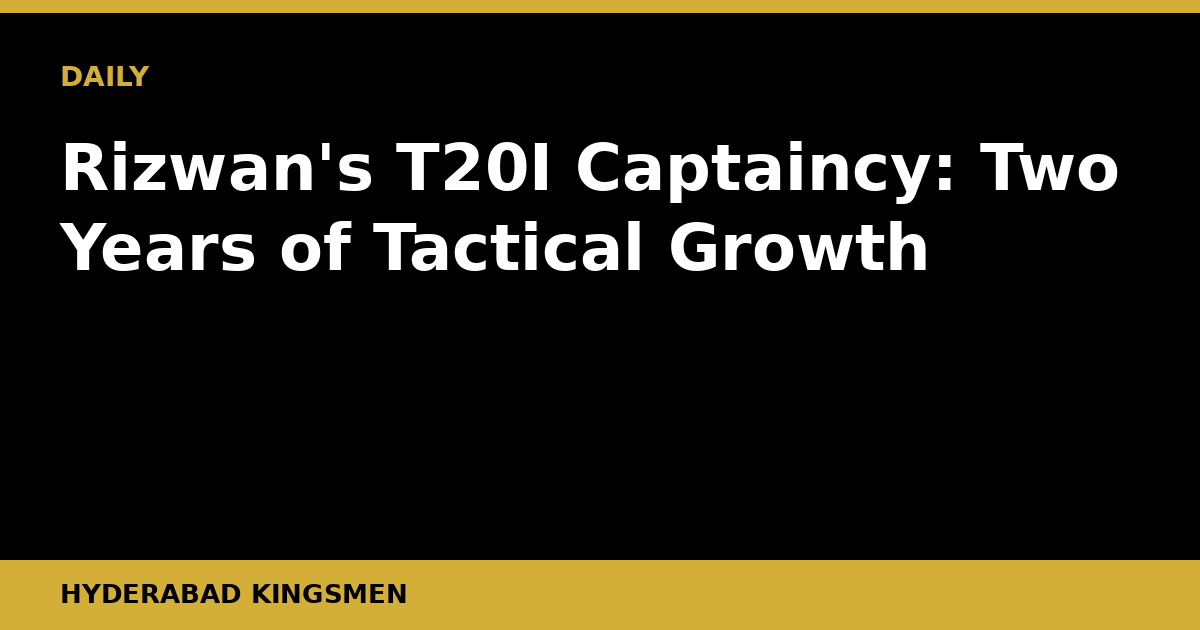
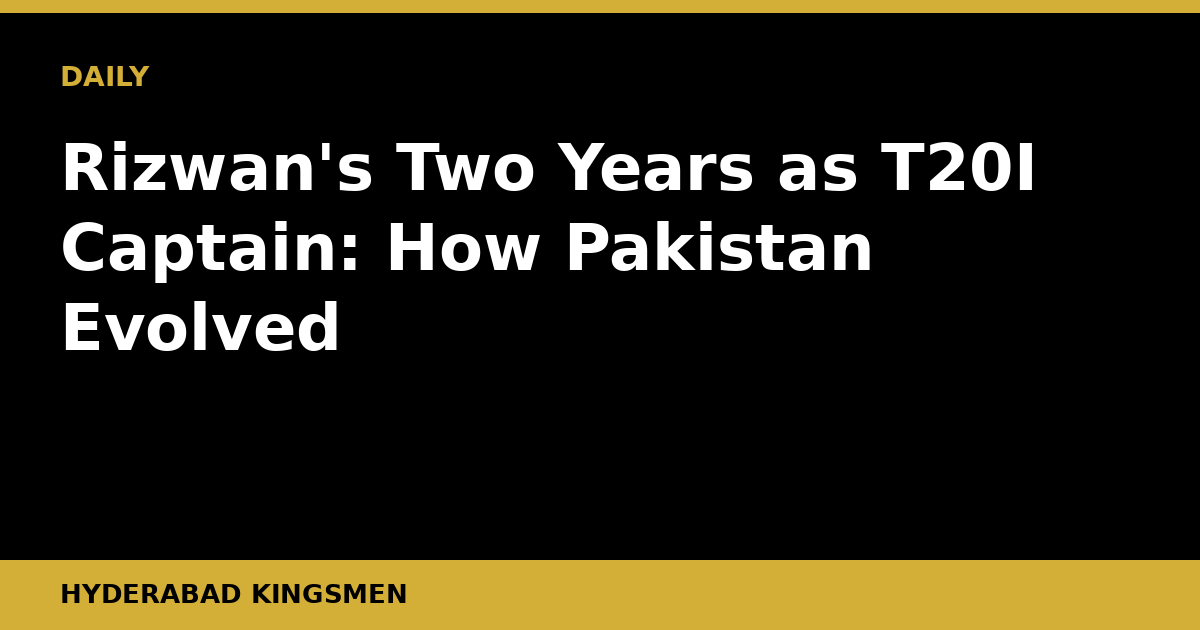
Daily post 2026-10-16

Changed region(s): [[0.0308, 0.2111, 0.9558, 0.4524], [0.0308, 0.4825, 0.3083, 0.573]]

diff --git a/content/posts/mohammad-rizwan-pakistan-t20i-captain-tactical-evolution.md b/content/posts/mohammad-rizwan-pakistan-t20i-captain-tactical-evolution.md
@@ -1,47 +1,43 @@
 ---
-title: "Rizwan's T20I Captaincy: Two Years of Tactical Growth"
+title: "Rizwan's Two Years as T20I Captain: How Pakistan Evolved"
 slug: "mohammad-rizwan-pakistan-t20i-captain-tactical-evolution"
-date: "2026-09-10T05:28:42+05:00"
+date: "2026-10-16T05:19:37+05:00"
 draft: false
 description: "Mohammad Rizwan has quietly reshaped Pakistan's T20I identity over two years. Here is what has changed, what has not, and what comes next."
 banner: "/banners/mohammad-rizwan-pakistan-t20i-captain-tactical-evolution.png"
 kicker: "ANALYSIS"
 author: "Hyderabad Kingsmen"
 translationKey: "mohammad-rizwan-pakistan-t20i-captain-tactical-evolution"
-tags: ["pakistan-cricket", "t20i", "mohammad-rizwan", "pakistan-captaincy", "t20-tactics", "cricket-analysis"]
+tags: ["pakistan-cricket", "t20i", "mohammad-rizwan", "pakistan-captaincy", "t20-world-cup", "tactical-analysis", "pakistan-t20"]
 categories: ["Analysis"]
 ---
 
-Mohammad Rizwan was never the most obvious choice to lead Pakistan's T20I side. He was the gritty accumulator, the man built for Test-match temperament shoehorned into the shortest format. Yet somewhere in the past two years, he has become something Pakistan's T20 captaincy rarely produces: a leader who actually influences results with his thinking, not just his batting.
+Mohammad Rizwan inherited the Pakistan T20I captaincy at a complicated moment. Babar Azam's exit from the role in late 2023 carried the weight of public debate, selection politics, and a team searching for a post-World Cup identity. Two years on, Rizwan's tenure deserves a clear-eyed assessment, free from the noise that surrounded how he got the job.
 
-## The Real Story Is Not the Runs
+## The Angle: From Reactive to Proactive
 
-It would be easy to write Rizwan's captaincy story as a batting story. He continues to be one of the most consistent top-order run-scorers in the format worldwide. But reducing his leadership to his personal numbers misses the point entirely.
+The most significant shift under Rizwan has been attitudinal. Pakistan T20I cricket under various captains had a habit of setting conservative totals, waiting for opposition mistakes, and relying on one or two senior players to win matches single-handedly. Rizwan has, credit where it is due, pushed back against that culture.
 
-The more interesting shift is tactical. Early in his captaincy tenure, Rizwan operated like most Pakistan skippers before him: reactive, conservative with bowling changes, and prone to leaving problems to resolve themselves. Fielding was an afterthought. The team often looked like a collection of individuals playing parallel innings rather than a coordinated unit.
+His own batting is the clearest example. Once a pure anchor, Rizwan recalibrated his T20I strike rate substantially across this period, accepting that a captain cannot ask aggressive intent from his batters while modelling caution himself. The data backs this up: his powerplay scoring rate improved, and he began taking on short balls rather than nudging around them. It is a small thing on paper, but it changed the dressing room conversation.
 
-Over the past twelve to eighteen months, something has clearly been worked on. Field-setting has become more proactive, particularly against left-handers, where Pakistan used to leak runs in predictable patterns. Rizwan now shows a willingness to bring spinners on earlier in powerplays on surfaces that suit turn, a move that was essentially taboo under previous T20 regimes. The double-wicket maiden in a middle-over is no longer treated as an accident; it looks more like an objective.
-
-## Man-Management: The Hidden Variable
-
-Perhaps the most underappreciated dimension of Rizwan's growth has been his handling of bowling personnel. Pakistan's pace attack has gone through significant churn since the 2022 T20 World Cup. Naseem Shah's fitness issues, Shaheen Afridi's return and repositioning, and the emergence of younger options like Haris Rauf fluctuating in form have all created selection headaches that eventually land on the captain's in-match decisions.
-
-Rizwan has handled this with more pragmatism than sentiment. He has shown a willingness to pull a senior bowler after a poor first over rather than letting a spell bleed runs out of loyalty. That sounds basic. In Pakistan cricket's context, where relationships and reputations carry enormous weight, it is actually a meaningful departure.
-
-His management of spinner usage against specific opposition matchups has also grown more nuanced. Against sides that struggle against wrist spin, he has shown the confidence to persist with a leg-spinner under pressure rather than retreating to seam. These are small decisions. Accumulated across a two-year period, they add up to a more coherent tactical identity.
+Bowling changes have been the bigger talking point. Rizwan moved away from the rigid use of senior pacers in fixed spells, experimenting more openly with leg-spin in the powerplay and deploying part-time options to create matchup problems. Pakistan's willingness to throw the ball to Shadab Khan in the first six overs, something previous captains treated as unthinkable against certain opposition, became a recognisable tactical signature. It has not always worked. But the willingness to try is itself a departure from tradition.
 
 ## What Has Not Changed
 
-Honesty demands acknowledging the gaps. Pakistan's T20I death bowling remains structurally fragile, and Rizwan has not found a reliable solution. The 16th-to-20th-over problem is as live today as it was when he took the armband. Partly this is a personnel issue beyond any captain's control. But the in-match response, sometimes shuffling the same options hoping for different outcomes, suggests the tactical toolkit has a ceiling.
+Honesty demands acknowledging the gaps. Pakistan's middle-order volatility, a problem that predates Rizwan's captaincy by several years, has not been resolved. The number four and five positions remain a revolving door, partly a selection issue rather than a purely tactical one, but captains set the tone for how young batters are managed and protected. That tone has been inconsistent.
 
-Opening partnerships have also remained a recurring puzzle. Rizwan's own approach at the top means the scoring rate in powerplays can be conservative, and the captain has not always made compensatory adjustments in the middle overs to recover momentum lost at the top.
+The death-bowling unit has also remained exposed on flat tracks. Rizwan has rotated his options and shown faith in younger seamers in certain conditions, but Pakistan still leak runs at the back end of innings against quality opposition at a rate that costs them matches. No captain fixes this alone, but tactical bowling restrictions and field placements at the death have not always reflected the boldness Rizwan shows elsewhere.
 
-## What Comes Next
+## What It Means Going Forward
 
-With major ICC events perpetually on the horizon, the pressure on Rizwan's captaincy will intensify rather than ease. The question Pakistan cricket needs to answer honestly is whether the tactical growth of the past two years is sufficient to compete with the template-breaking sides, England's Bazball-era T20 approach, India's fearless top-order, or the West Indies' structural power-hitting.
+The 2026 T20 World Cup sits on the horizon, and Pakistan's qualification picture, their preparation schedule, and the composition of their squad will all be shaped by decisions made in the next twelve to eighteen months. Rizwan's captaincy stability provides something valuable: continuity. Pakistan have, historically, been prone to mid-cycle captaincy changes that cost the team cohesion. Whatever one thinks of the appointment, the continuity itself has allowed younger players like Saim Ayub to develop within a settled environment rather than adjusting to a new captain's demands every few months.
 
-Rizwan has earned genuine credit. The evolution is real. But evolution in isolation is not enough; the pace of change has to match the pace of the opposition's development.
+The bigger question is whether Rizwan can evolve his approach against top-tier opposition. Pakistan's performances against India, Australia, and England in high-pressure knockout cricket remain the ultimate benchmark. A captain can look excellent in bilateral series and still fall short when it matters most. The tactical innovations need stress-testing at the highest level.
 
-Watch for how Pakistan set up their bowling rotations in the next bilateral T20I series and whether Rizwan makes the first bowling change before the sixth over on spinning surfaces. That single tactical habit will tell you more about where his captaincy is headed than any post-match press conference will.
+There is also the Babar Azam equation. The former captain remains in contention for selection as a batter, and managing that dynamic, the presence of a previous captain of Babar's stature in the XI, requires social intelligence as much as tactical acumen. So far, Rizwan has handled it without visible friction. That is worth noting.
 
-If that decision becomes instinctive rather than reactive, Pakistan may finally have a T20 captain who is a step ahead of the game rather than half a step behind.
+## What to Watch Next
+
+Pakistan's upcoming T20I assignments, particularly any tours to subcontinental conditions and any series against the top-ranked sides in the format, will tell us whether the tactical progress is real or just flattering records against lower-ranked opposition. Watch specifically for how Rizwan uses the powerplay with the ball on spin-friendly tracks, how he manages his middle-order conversation when batters are under pressure, and whether Pakistan's death-bowling plans look more structured than they did eighteen months ago.
+
+Two years in, the verdict is this: Rizwan has moved the dial. Not dramatically, and not without setbacks. But Pakistan's T20I cricket is more tactically curious than it was when he took charge. In a format that rewards curiosity, that is a foundation worth building on.
